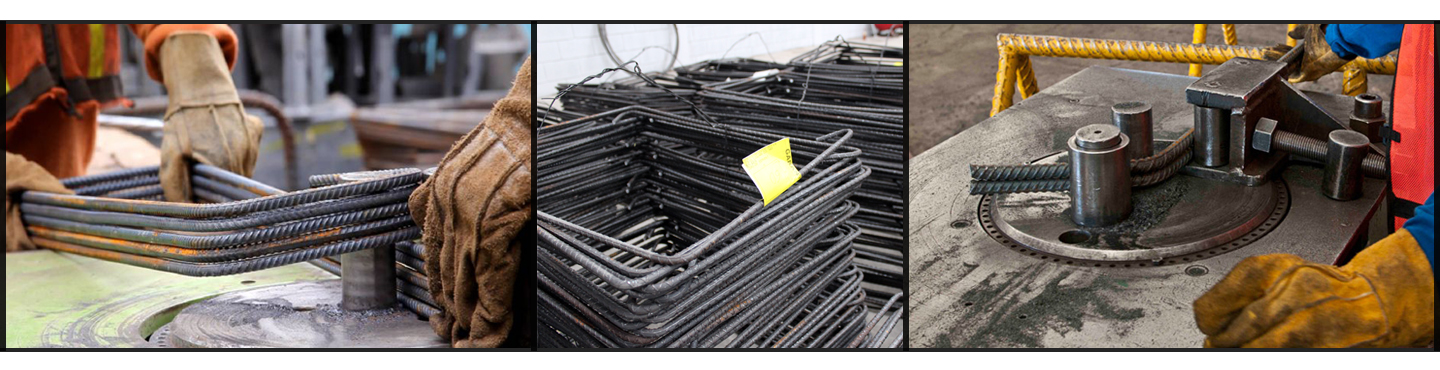
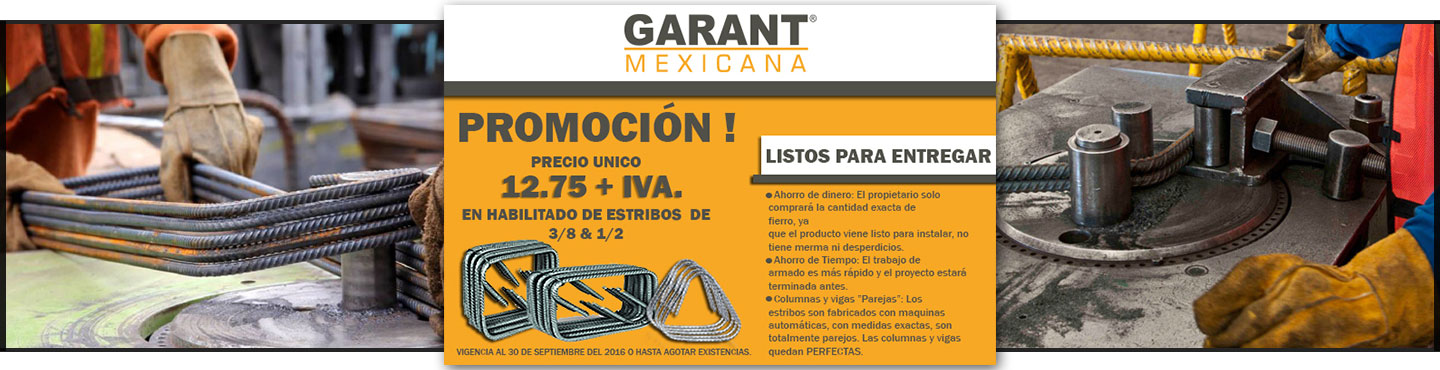
Quitar headline de index, slideshow en vigueta y promoción en habilitado

diff --git a/vigueta.html b/vigueta.html
@@ -34,7 +34,7 @@
 		<script src="js/libs/fancybox.js"></script>
 		<script src="js/main.js"></script>
   </head>
-  <body data-page="post" data-boxed="false">
+  <body data-page="home" data-boxed="false">
 
         <!-- LAYOUT -->
         <div id="layout">
@@ -66,7 +66,7 @@
                       </li>
                       <li><a href="proyectos.html">Proyectos</a></li>
                       <li><a href="about.html">Nosotros</a></li>
-                      <li><a href="contact.html">Contacto</a></li>
+                      <li><a href="mailto:yishell@garant.mx">Contacto</a></li>
                     </ul>
                   </li>
                 </ul>
@@ -74,9 +74,23 @@
             </div>
           </div>
 
-          <!-- BANNER -->
-          <div class="banner ui_preloader">
-            <div class="background" style="background-image: url(img/vigueta-banner.jpg);"></div>
+          <!-- SLIDER -->
+          <div id="slider" class="banner">
+            <div class="fullwidthbanner-container">
+              <div class="fullwidthbanner">
+                <ul>
+                  <li data-transition="fade" data-slotamount="0">
+                    <img src="img/s-vigueta-3.jpg" alt="" data-fullwidthcentering="on"/>
+                  </li>
+                  <li data-transition="fade" data-slotamount="1">
+                    <img src="img/s-vigueta-2.jpg" alt="" data-fullwidthcentering="on"/>
+                  </li>
+                  <li data-transition="fade" data-slotamount="2">
+                    <img src="img/s-vigueta-1.jpg" alt="" data-fullwidthcentering="on"/>
+                  </li>
+                </ul>
+              </div>
+            </div>
           </div>
 
             <!-- POST -->

diff --git a/index.html b/index.html
@@ -67,7 +67,7 @@
                     </li>
                     <li><a href="proyectos.html">Proyectos</a></li>
                     <li><a href="about.html">Nosotros</a></li>
-                    <li><a href="contact.html">Contacto</a></li>
+                    <li><a href="mailto:yishell@garant.mx">Contacto</a></li>
                   </ul>
                 </li>
               </ul>
@@ -77,17 +77,6 @@
 
         <!-- SLIDER -->
         <div id="slider" class="banner">
-          <div class="headline">
-            <div class="caption" style="font-size: 43px; line-height: 45px; font-weight: 300; color: #fff;">
-              <b>Fortaleciendo tu proyecto</b>
-            </div>
-            <div class="caption lfl" style="font-size: 16px; line-height: 22px; font-weight: normal; color: #fff;">
-              Somos una  empresa seria, comprometida, buscando el mayor <br>
-              rendimiento, ahorro en costo y tiempo que nuestros clientes <br>
-              necesitan; ofreciendo productos de gran calidad, que brinden <br>
-              eficiencia y seguridad estructural a su proyecto.
-            </div>
-          </div>
           <div class="fullwidthbanner-container">
             <div class="fullwidthbanner">
               <ul>

diff --git a/about.html b/about.html
@@ -67,7 +67,7 @@
                       </li>
                       <li><a href="proyectos.html">Proyectos</a></li>
                       <li class="current-menu-item"><a href="about.html">Nosotros</a></li>
-                      <li><a href="contact.html">Contacto</a></li>
+                      <li><a href="mailto:yishell@garant.mx">Contacto</a></li>
                     </ul>
                   </li>
                 </ul>

diff --git a/proyectos.html b/proyectos.html
@@ -67,7 +67,7 @@
                       </li>
                       <li class="current-menu-item"><a href="proyectos.html">Proyectos</a></li>
                       <li><a href="about.html">Nosotros</a></li>
-                      <li><a href="contact.html">Contacto</a></li>
+                      <li><a href="mailto:yishell@garant.mx">Contacto</a></li>
                     </ul>
                   </li>
                 </ul>

diff --git a/conectores.html b/conectores.html
@@ -67,7 +67,7 @@
                       </li>
                       <li><a href="proyectos.html">Proyectos</a></li>
                       <li><a href="about.html">Nosotros</a></li>
-                      <li><a href="contact.html">Contacto</a></li>
+                      <li><a href="mailto:yishell@garant.mx">Contacto</a></li>
                     </ul>
                   </li>
                 </ul>

diff --git a/habilitado.html b/habilitado.html
@@ -66,7 +66,7 @@
                       </li>
                       <li><a href="proyectos.html">Proyectos</a></li>
                       <li><a href="about.html">Nosotros</a></li>
-                      <li><a href="contact.html">Contacto</a></li>
+                      <li><a href="mailto:yishell@garant.mx">Contacto</a></li>
                     </ul>
                   </li>
                 </ul>

diff --git a/toron.html b/toron.html
@@ -67,7 +67,7 @@
                       </li>
                       <li><a href="proyectos.html">Proyectos</a></li>
                       <li><a href="about.html">Nosotros</a></li>
-                      <li><a href="contact.html">Contacto</a></li>
+                      <li><a href="mailto:yishell@garant.mx">Contacto</a></li>
                     </ul>
                   </li>
                 </ul>
